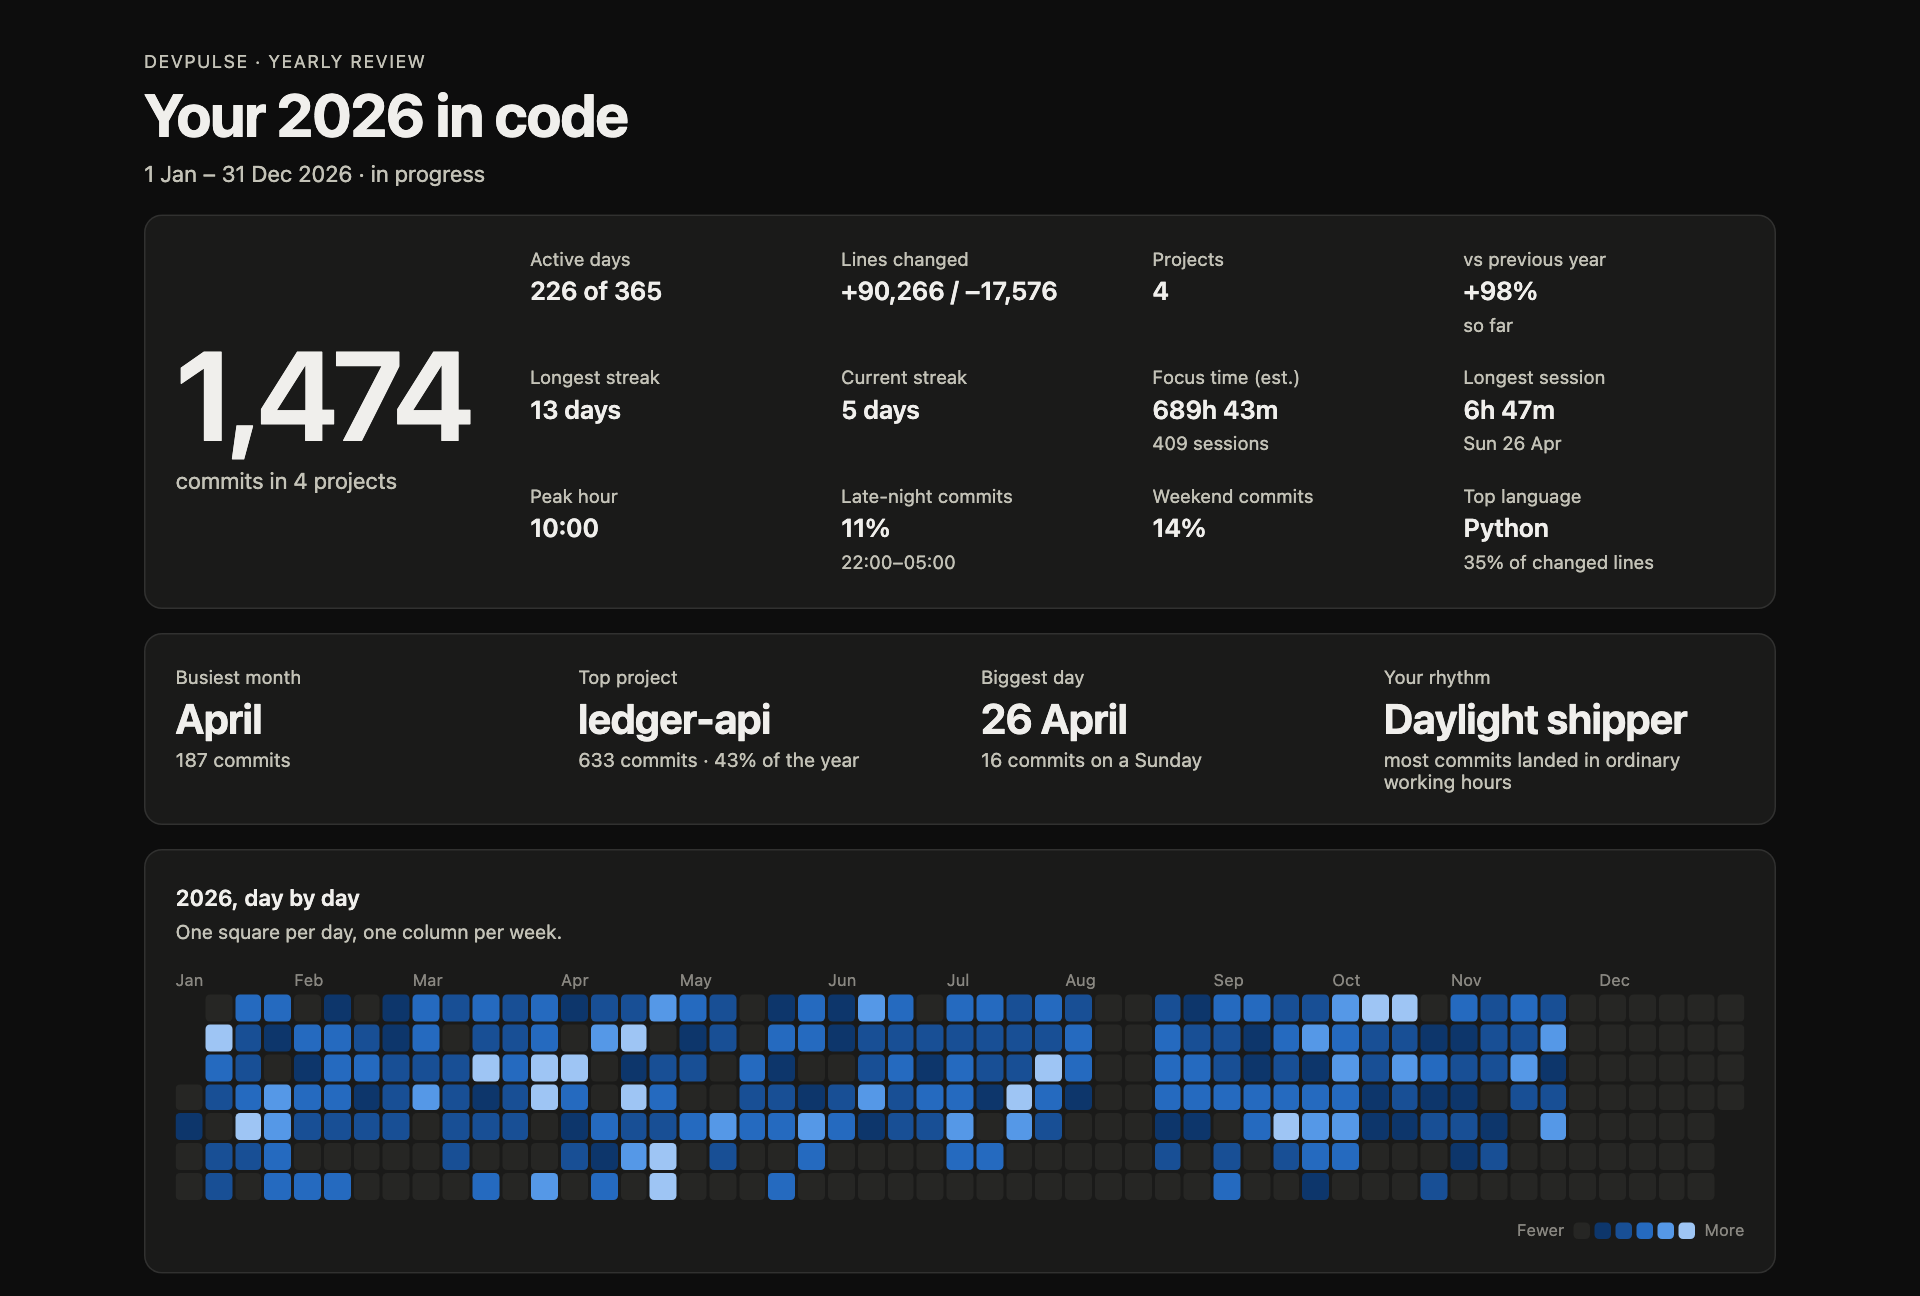
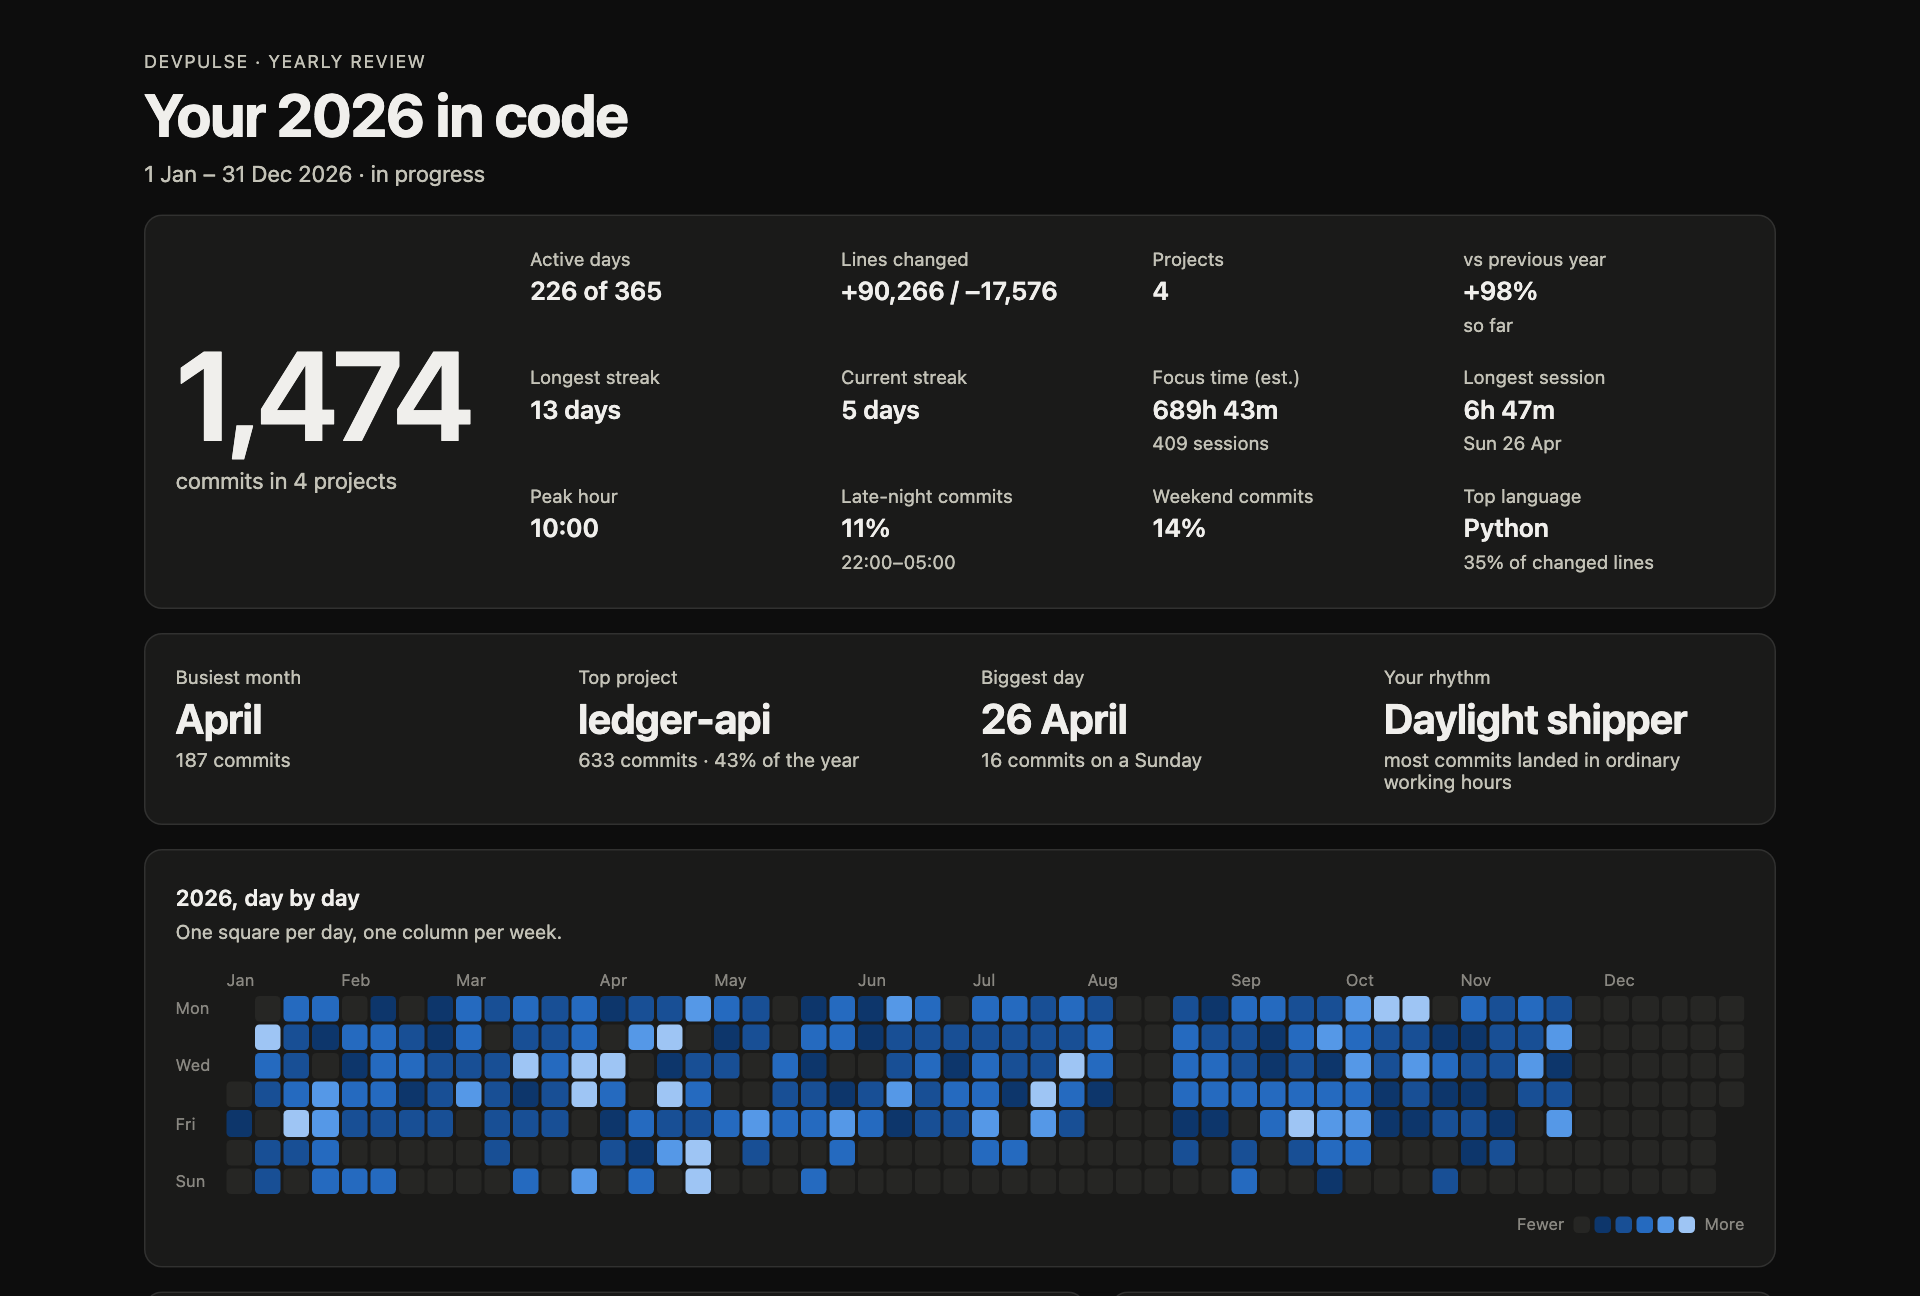
Polish the edges: pipes, unwritable targets, calendar labels
- Exit quietly when stdout is closed early (devpulse standup | head).
- Report an unwritable --md/--html target or a missing git as one
  line instead of a traceback.
- Keep standup bullets on one line when the terminal is narrow.
- Label weekdays on the year calendar.

Changed region(s): [[0.0938, 0.7407, 0.8438, 0.9259], [0.7812, 0.9259, 0.9062, 0.9568]]

diff --git a/src/devpulse/dashboard.py b/src/devpulse/dashboard.py
@@ -54,9 +54,9 @@ p{margin:0}
 .scale{display:flex;gap:3px;align-items:center;justify-content:flex-end;margin-top:12px;font-size:11px;color:var(--muted)}
 .scale i{width:11px;height:11px;border-radius:3px;background:var(--q0)}
 .scroll{overflow-x:auto}
-.cal{display:grid;grid-template-rows:auto repeat(7,minmax(0,1fr));grid-auto-flow:column;grid-auto-columns:minmax(11px,1fr);gap:2px;min-width:700px}
+.cal{display:grid;grid-template-rows:auto repeat(7,minmax(0,1fr));grid-template-columns:2rem;grid-auto-flow:column;grid-auto-columns:minmax(11px,1fr);gap:2px;min-width:740px}
 .cal i.out{background:none}
-.cal span{height:16px;white-space:nowrap;overflow:visible}
+.cal span{display:flex;align-items:center;min-height:16px;white-space:nowrap}
 .cols{display:flex;gap:2px;align-items:flex-end;border-bottom:1px solid var(--axis);height:150px}
 .cols>div{flex:1;min-width:0;display:flex;flex-direction:column;align-items:center;justify-content:flex-end;height:100%}
 .cols b{font-size:11px;font-weight:600;color:var(--ink2);font-variant-numeric:tabular-nums}
@@ -138,7 +138,8 @@ def _heat(r: Report) -> str:
 def _calendar(r: Report) -> str:
     top = max(r.per_day.values())
     day = r.period.start - timedelta(days=r.period.start.weekday())
-    cells = []
+    # first grid column: a blank corner, then a label on every other weekday row
+    cells = ["<span></span>"] + [f"<span>{name if i % 2 == 0 else ''}</span>" for i, name in enumerate(WEEKDAYS)]
     while day <= r.period.end:
         week = [day + timedelta(days=i) for i in range(7)]
         firsts = [d for d in week if d.day == 1 and d in r.per_day]

diff --git a/src/devpulse/cli.py b/src/devpulse/cli.py
@@ -3,6 +3,7 @@
 from __future__ import annotations
 
 import argparse
+import os
 import sys
 import tempfile
 import webbrowser
@@ -166,3 +167,9 @@ def main(argv: list[str] | None = None) -> int:
     except UsageError as e:
         print(f"devpulse: {e}", file=sys.stderr)
         return 2
+    except BrokenPipeError:  # e.g. `devpulse standup | head -3`
+        os.dup2(os.open(os.devnull, os.O_WRONLY), sys.stdout.fileno())  # keep the exit flush quiet
+        return 1
+    except OSError as e:  # an unwritable --md/--html target, or git missing from PATH
+        print(f"devpulse: {e}", file=sys.stderr)
+        return 1

diff --git a/tests/test_cli.py b/tests/test_cli.py
@@ -75,6 +75,9 @@ def test_usage_errors(tmp_path, capsys):
     assert "no git repositories found" in capsys.readouterr().err
     assert cli.main(["week", str(tmp_path / "missing")]) == 2
     assert "not a folder" in capsys.readouterr().err
+    (tmp_path / "file.txt").write_text("not a folder")
+    assert cli.main(["week", str(workspace(tmp_path)), "--md", str(tmp_path / "file.txt" / "notes")]) == 1
+    assert "file.txt" in capsys.readouterr().err
     make_repo(tmp_path / "anon" / "r", identity=None)
     assert cli.main(["week", str(tmp_path / "anon")]) == 2
     assert "pass --author" in capsys.readouterr().err

diff --git a/src/devpulse/terminal.py b/src/devpulse/terminal.py
@@ -92,4 +92,5 @@ def _bullets(title: str, commits: list[Commit], console: Console) -> None:
             subjects.append(c.subject)
     for repo, subjects in by_repo.items():
         for s in subjects:
-            console.print(f"  - [cyan]{escape(repo)}[/cyan]: {escape(s)}", highlight=False)
+            # soft_wrap: a pasted bullet must stay one line however narrow the terminal is
+            console.print(f"  - [cyan]{escape(repo)}[/cyan]: {escape(s)}", highlight=False, soft_wrap=True)

diff --git a/README.md b/README.md
@@ -102,7 +102,7 @@ Today (Fri 20 Nov)
   ...
 ```
 
-On a Monday, "Yesterday" becomes "Last active day" and shows Friday.
+If you did not commit yesterday, the first block is titled "Last active day" and shows the most recent day you did, up to a week back. So on a Monday after a free weekend you get Friday.
 
 ### As an Obsidian note
 
@@ -186,6 +186,8 @@ pipx inject devpulse anthropic          # one time: the SDK is not installed by 
 export ANTHROPIC_API_KEY=...
 devpulse week ~/code --ai --md ~/vault/Reviews
 ```
+
+With uvx, add `--with anthropic` before `--from`.
 
 `--ai` adds a short narrative and "one thing for next week" to all three outputs. It sends the headline numbers, your project names and up to 40 commit subjects per project to the Anthropic API (model `claude-opus-5-5`; set `DEVPULSE_MODEL` to change it). File names, diffs and code are never sent. Having `ANTHROPIC_API_KEY` set is not enough to trigger an upload: you have to ask with `--ai` each time. If the SDK, the key or the network is missing, devpulse says so and prints the normal report.
 
